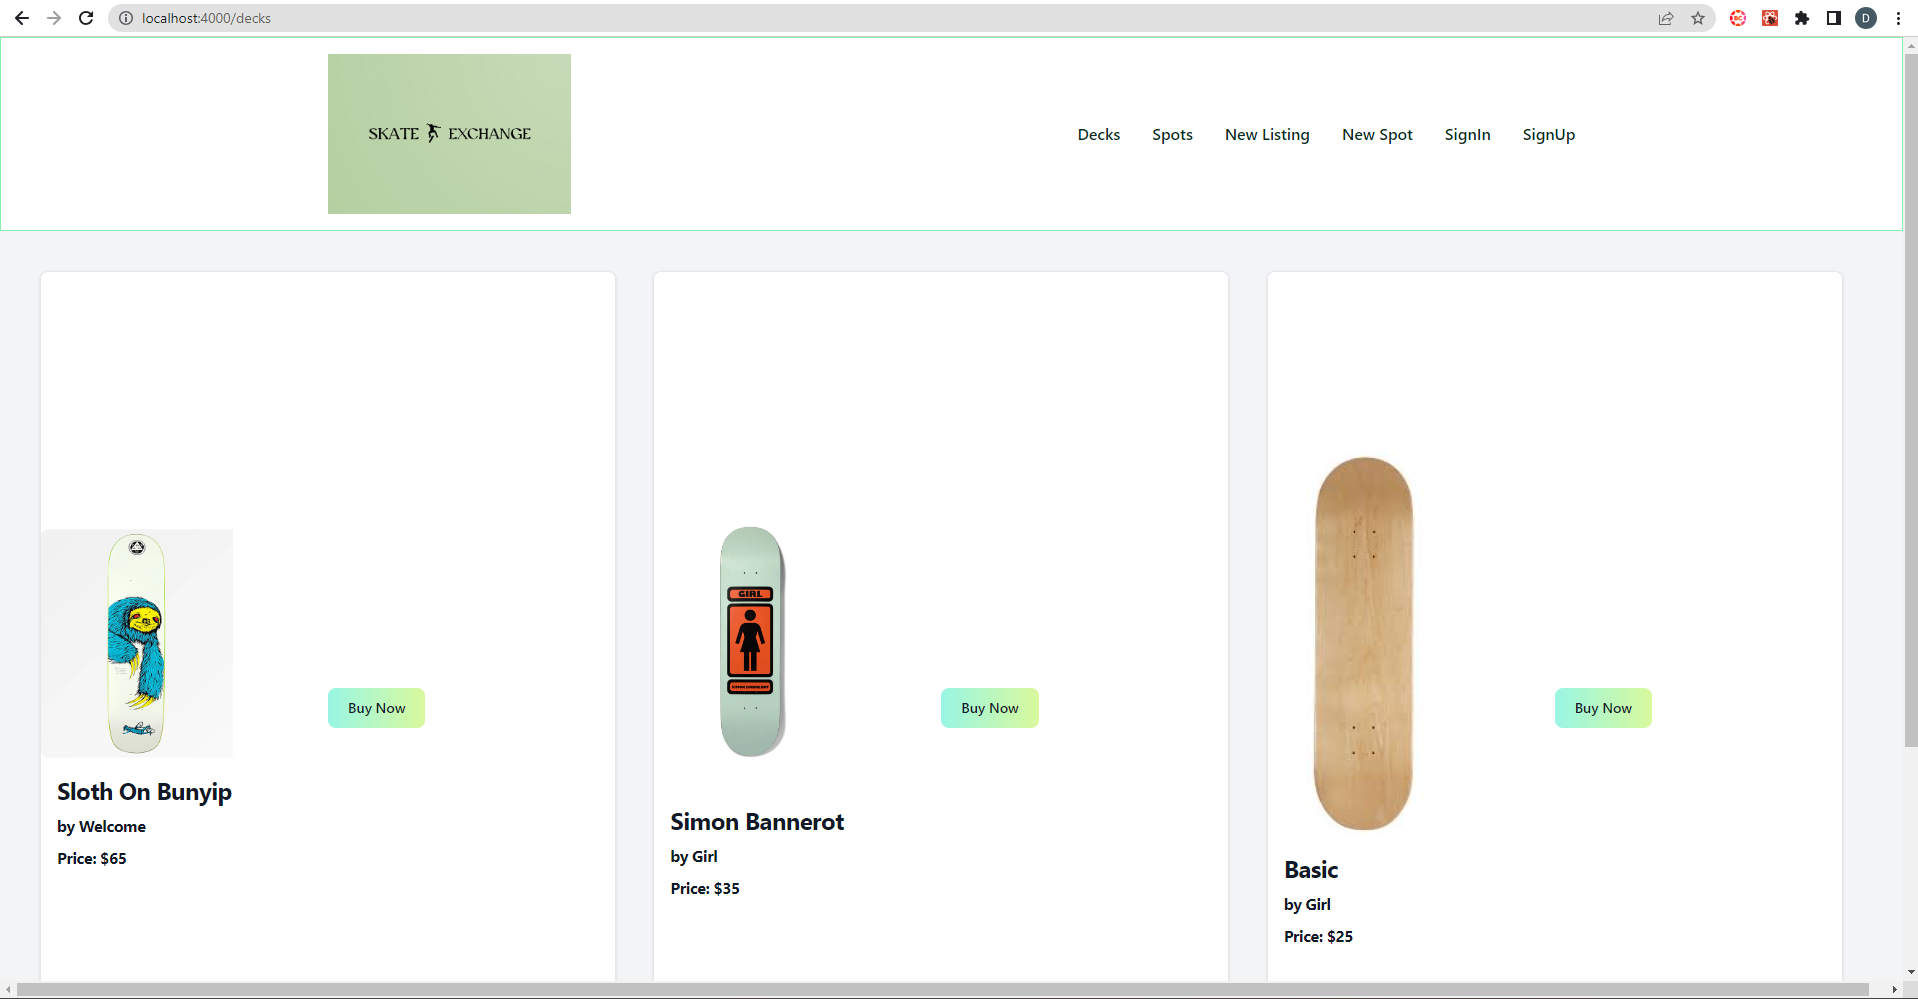
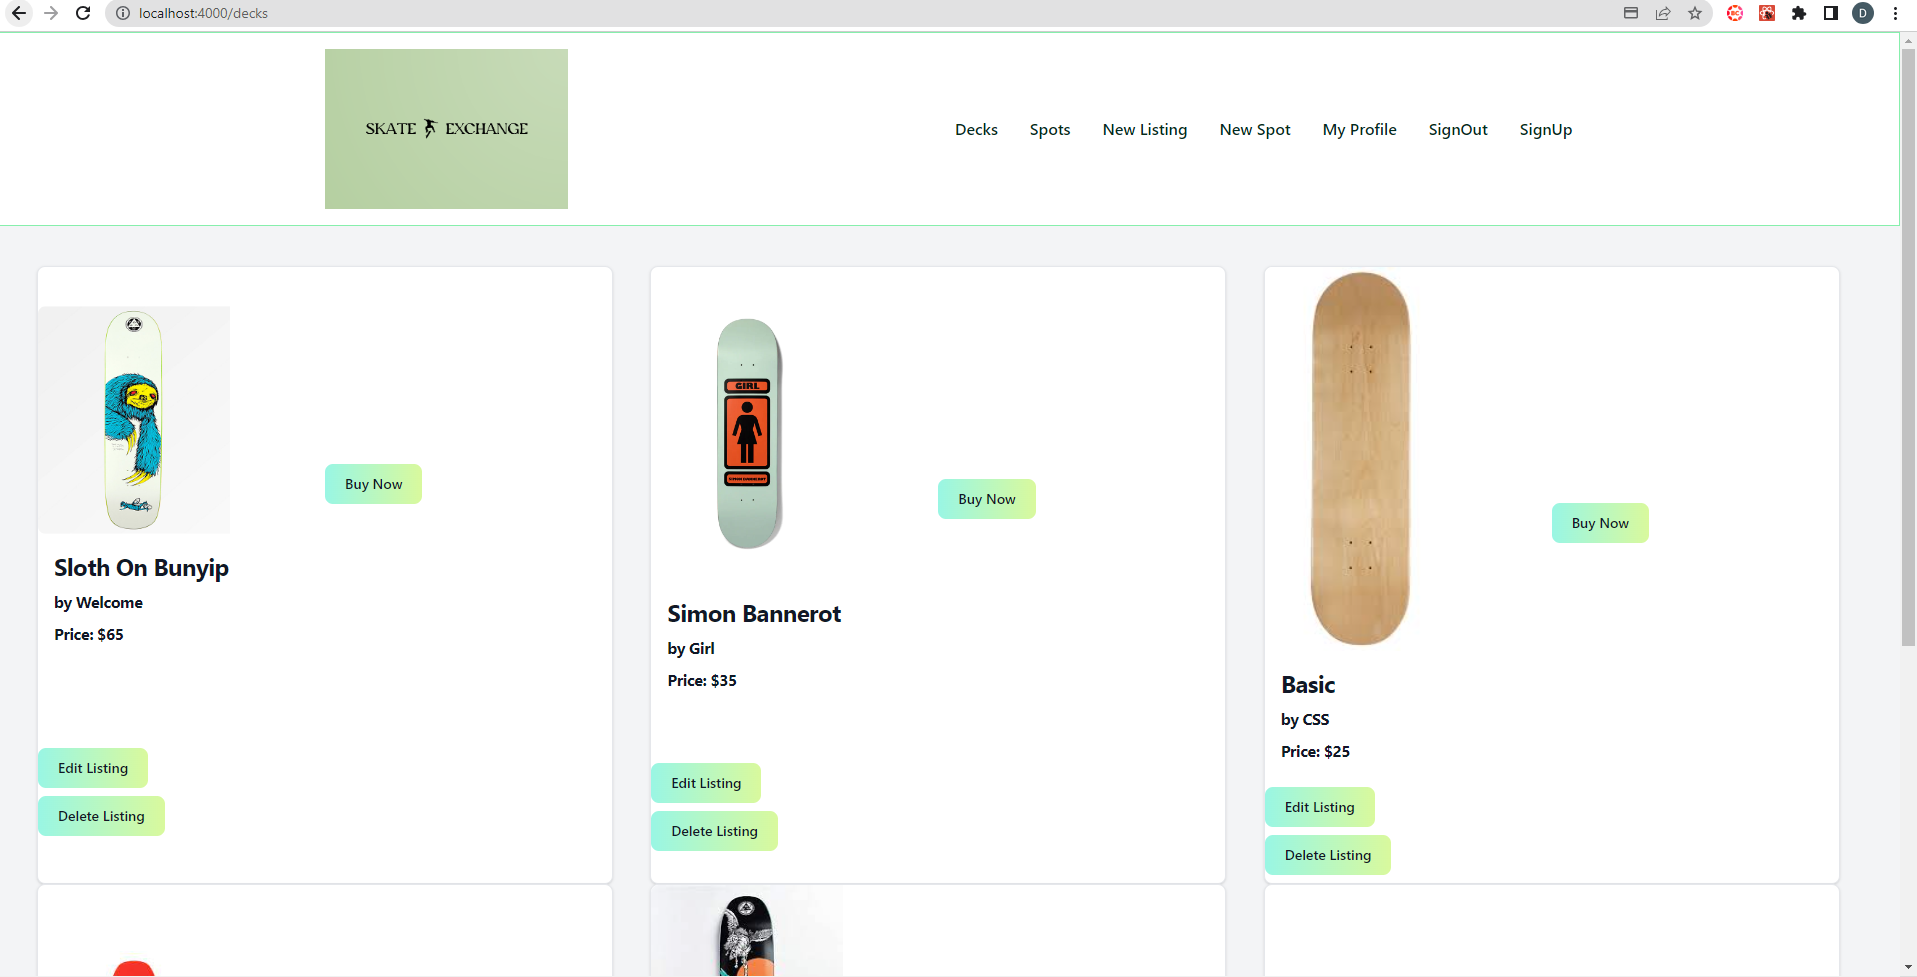
more final touches

diff --git a/client/src/components/EditDeck.js b/client/src/components/EditDeck.js
@@ -3,6 +3,14 @@ import { useHistory } from "react-router-dom/cjs/react-router-dom.min";
 import { ErrorMessage, useFormik } from 'formik';
 import * as yup from 'yup';
 import { DeckContext } from "./context/deckContext";
+import toastr from 'toastr';
+import 'toastr/build/toastr.min.css'
+
+toastr.options = {
+    postionClass : 'toast-top-full-width',
+    hideDuration : 300,
+    timeOut : 60000
+}
 
 const EditDeck = ({ deck, handleEditToggle}) => {
     const history = useHistory()
@@ -50,6 +58,7 @@ const EditDeck = ({ deck, handleEditToggle}) => {
                         handleDeckEdit(data)
                         resetForm({values: ''})
                         history.push('/decks')
+                        toastr.success('Your adjustments have been added to the database')
                         handleEditToggle()
                     })
                 } else {

diff --git a/client/src/components/SignIn.js b/client/src/components/SignIn.js
@@ -28,12 +28,10 @@ const SignIn = ({ handleUser }) => {
         .then((r) => {
             if(r.ok){
                 r.json().then(data => handleUser(data))
-                //change alert to text notif
                 toastr.success('You have been signed in. Returning to home...')
                 history.push('/')
             } else {
-                //change alert to notif
-                alert('Invalid email or password please try again')
+                toastr.error('Invalid email or password please try again')
             }
         })
     }

diff --git a/client/src/components/DeckCard.js b/client/src/components/DeckCard.js
@@ -59,9 +59,9 @@ const DeckCard = ({ deck, user }) => {
         }).then((r) => {
             if(r.ok){
                 handleDeckDelete(r)
-                toastr.success('Listing deleted.')
                 history.push('/decks')
                 window.location.reload()
+                toastr.success('Listing deleted.')
             } else {
                 toastr.error('Something went wrong. Please try again.')
             }

diff --git a/server/app.py b/server/app.py
@@ -79,16 +79,16 @@ def webhook():
     return jsonify(success=True)
 
 
-# def decks_login_required(func):
-#     @wraps(func)
-#     def decorated_function(*args, **kwargs):
-#         current_user = session.get('user_id')
-#         deck_to_edit = db.session.get(User_Deck, kwargs)
-#         import ipdb; ipdb.set_trace()
-#         if not session['user_id'] or current_user != deck_to_edit:
-#             return make_response({'error': 'Unauthorized'}, 401)
-#         return func(*args, **kwargs)
-#     return decorated_function
+def decks_login_required(func):
+    @wraps(func)
+    def decorated_function(*args, **kwargs):
+        current_user = session.get('user_id')
+        deck_to_edit = db.session.get(Deck, kwargs)
+        # import ipdb; ipdb.set_trace()
+        if not session['user_id'] or current_user != deck_to_edit.user_id:
+            return make_response({'error': 'Unauthorized'}, 401)
+        return func(*args, **kwargs)
+    return decorated_function
 
 class SignUp(Resource):
     def post(self):
@@ -182,6 +182,7 @@ class DecksById(Resource):
         except Exception:
             return make_response({'error': 'Deck not found'}, 404)
     
+    @decks_login_required
     def delete(self, id):
         try:
             deck = db.session.get(Deck, id)
@@ -191,7 +192,7 @@ class DecksById(Resource):
         except Exception:
             return make_response({'error': 'deck not found'}, 404)
     
-    # @decks_login_required
+    @decks_login_required
     def patch(self, id):
         deck_by_id = db.session.get(Deck, id)
         if not deck_by_id:

diff --git a/README.md b/README.md
@@ -1,26 +1,26 @@
 ## Installation
 1. Fork and clone this repo from Github into your local environment
 2. Go into your local directory and open the contents in vscode or your preferred code editor.
-3. Run `pipenv install` to install dependencies
-4. Run `pipenv shell` to create a virtual environment
-5. Run `cd server/` to enter the server directory
+3. Run `$ pipenv install` to install dependencies
+4. Run `$ pipenv shell` to create a virtual environment
+5. Run `$ cd server/` to enter the server directory
 
 ### .env set up
 1. Create a `.env` file in the server directory
 2. On line 1 write `SECRET_KEY=`
-3. In the terminal run `python -c import secrets; print(secrets.token_hex())` 
+3. In the terminal run `$ python -c import secrets; print(secrets.token_hex())` 
 4. Copy the resulting key from the terminal and paste it into your `.env` as the value of `SECRET_KEY`
 5. Add `.env` to your `.gitignore` file.
 
 ### Start the database
-1. `export FLASK_APP=app.py`
-2. `flask db init`
-3. `flask db upgrade`
-4. `python3 seed.py` to seed the database
+1. Run `$ export FLASK_APP=app.py`
+2. Run `$ flask db init`
+3. Run `$ flask db upgrade`
+4. Run `$ python3 seed.py` to seed the database
 
 ### Configuring Stripe
-1. Go to [Stripe] (https://stripe.com/) and create an account
-2. Go to your dashboard and get your API keys
+1. Go to [Stripe](https://stripe.com/) and create an account
+2. Go to your dashboard and get your API test key
 3. Go back into your `.env` file and create a line for `STRIPE_API_TEST_KEY`
 4. Paste the test key from the Stripe dashboard as the value for `STRIPE_API_TEST_KEY` 
 
@@ -28,10 +28,10 @@
 1. Run `python3 app.py`
 
 ### Starting the Client
-1. `cd client` in another terminal window
-2. Run `npm install` to install dependencies
-3. Run `npm start` to open the app in the browser
+1. `$ cd client` in another terminal window
+2. Run `$ npm install` to install dependencies
+3. Run `$ npm start` to open the app in the browser
 
 ### Creator Links
-[Drew Womble](https://github.com/drwomble) <br>
+[GitHub](https://github.com/drwomble) <br>
 [Blog](https://dev.to/drew_womble)
